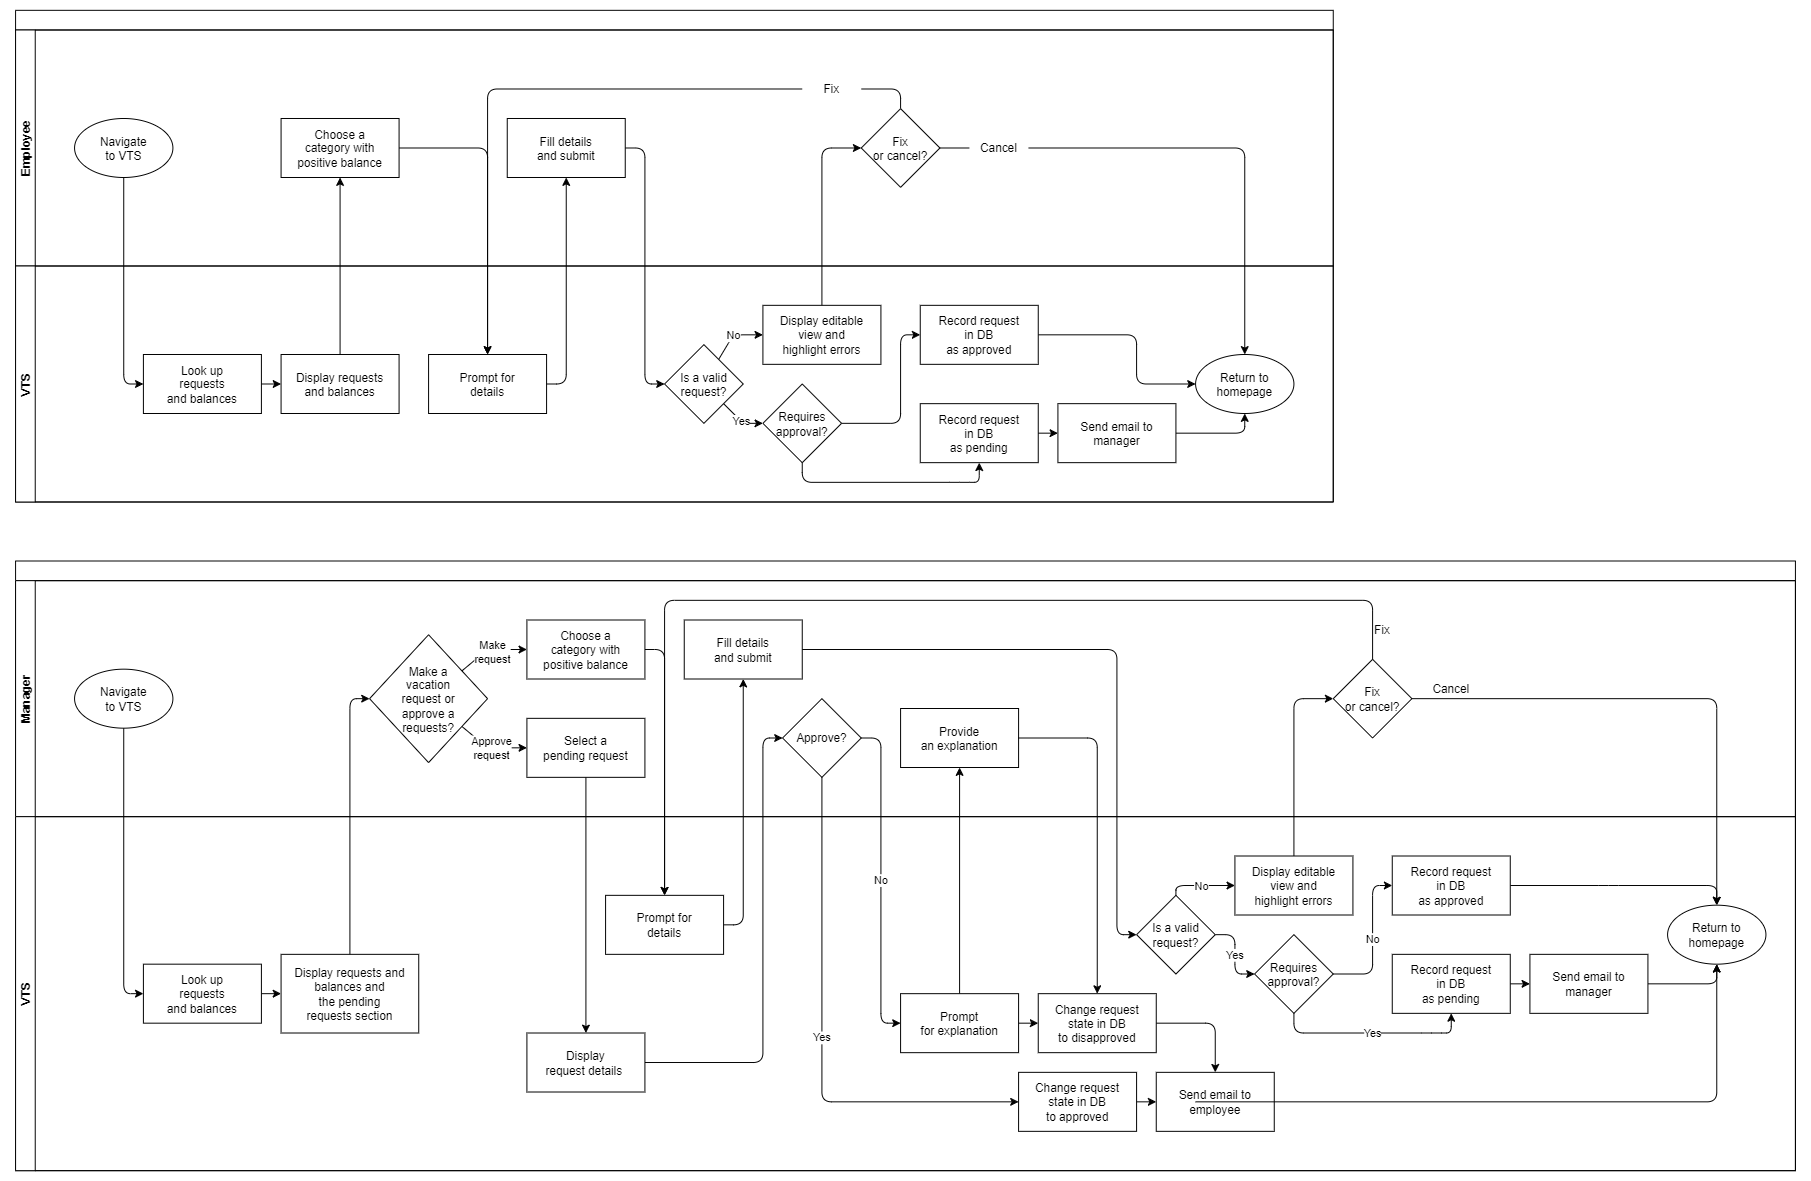
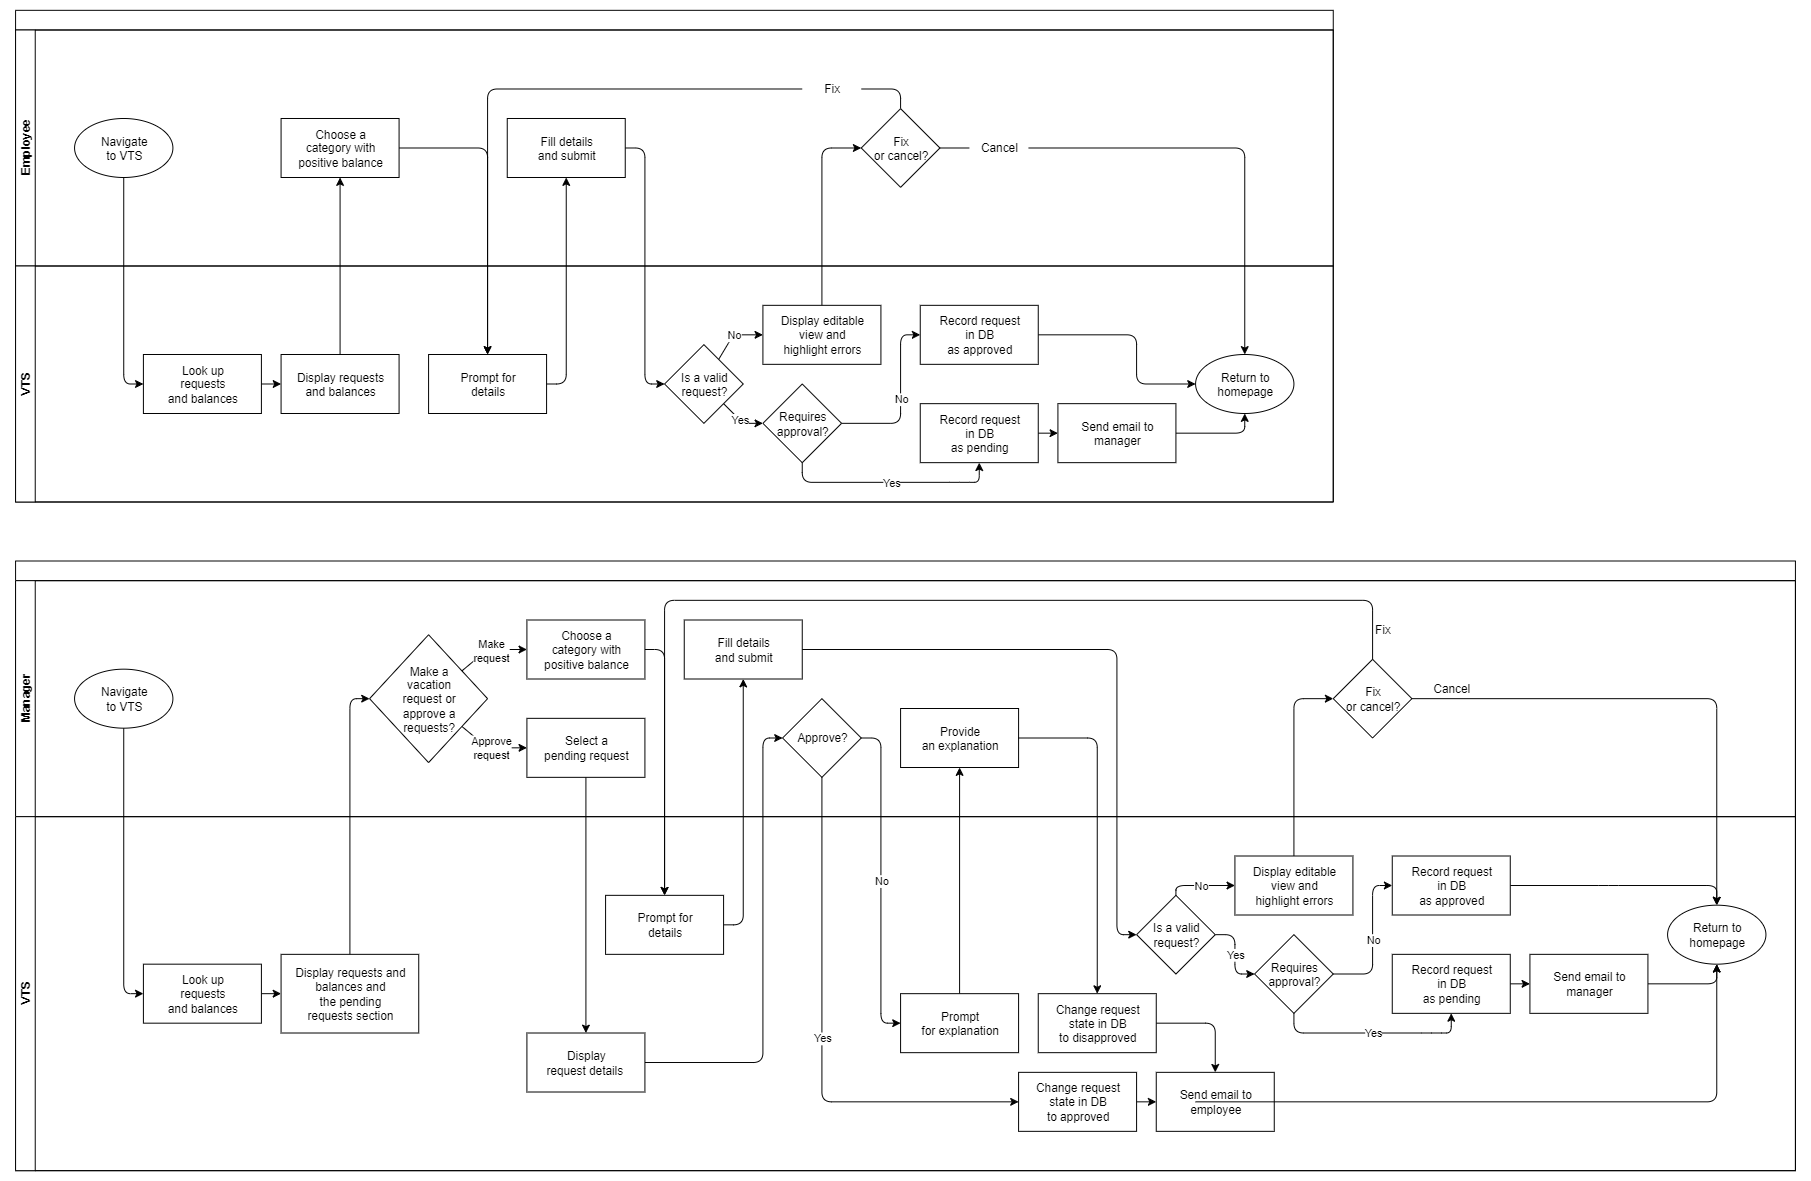
Remove Alternate Flows

diff --git a/README.md b/README.md
@@ -82,5 +82,45 @@
 	![Edit Alternate Flow Chart](Edit%20Alternate%20Flow%20Chart.png)
 - Pseudocode
 ```
-
+navigateToVTS() {
+	lookUpRequestsAndBalances();
+	displayRequestsAndBalances();
+	if(isManager) {
+		lookUpPendingRequests();
+		displayPendingRequests();
+	}
+	if(userWantstoMakeRequest) {
+		while(!requestDetailsAreCompleteAndValid) {
+			if(newRequest) {
+				promptForCategory();
+				promptForRequestDetails();
+			} else {
+				displayEditableViewHighlightingErrors();
+				if(userCansels) {
+					break;
+				}
+			}
+		}
+		if(requestDetailsAreCompleteAndValid) {
+			if(requestRequiresApproval) {
+				recordInDbAsPending();
+				sendEmailToManager()
+			} else {
+				recordInDbAsApproved();
+			}
+		}
+		returnToHomePage();
+	}
+	if(isManager && managerSelectsARequestToApprove) {
+		displayRequestDetails();
+		if(approved) {
+			changeRecordStateToApproved();
+		} else {
+			promptForExplanation();
+			changeRecordStateToDisapproved();
+		}
+		sendEmailToEmployee();
+		returnToHomePage();
+	}
+}
 ```
